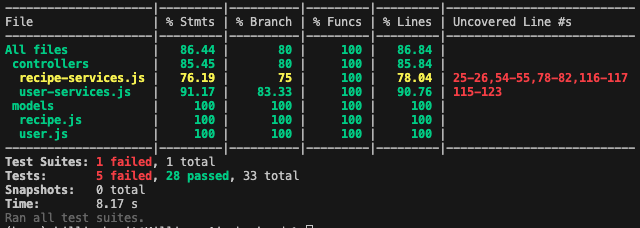
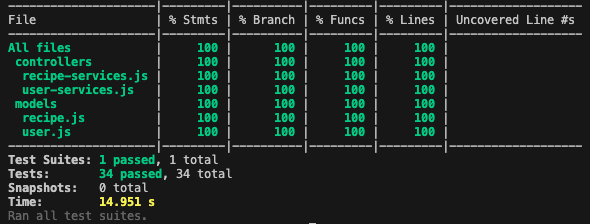
100

Changed region(s): [[0.0, 0.0, 1.0, 1.0]]

diff --git a/backend/backend.test.js b/backend/backend.test.js
@@ -255,7 +255,7 @@ describe("Test Suite", () => {
           const savedRecipe = await recipeServices.addRecipe(recipe);
           mongo_recipeId = new mongoose.Types.ObjectId(savedRecipe._id);
           // mongo_recipeId = savedRecipe._id;
-          console.log("mongo_recipeId: " + mongo_recipeId);
+          // console.log("mongo_recipeId: " + mongo_recipeId);
         });
 
         it("test userServices.addRecipe() - valid userId & recipe", async () => {
@@ -368,9 +368,9 @@ describe("Test Suite", () => {
       await Recipe.deleteMany({});
     });
 
-    it("test recipeServices.addRecipe() invalid recipe", () => {
-      const recipe = undefined;
-      const savedRecipe = recipeServices.addRecipe(recipe);
+    it("test recipeServices.addRecipe() invalid recipe", async () => {
+      const recipe = { id: undefined };
+      const savedRecipe = await recipeServices.addRecipe(recipe);
       expect(savedRecipe).toBeUndefined();
     });
 
@@ -392,10 +392,10 @@ describe("Test Suite", () => {
       // db_id = savedRecipe._id;
     });
 
-    it("test recipeServices.getRecipeByWebID() invalid recipeId", async () => {
-      const recipe = await recipeServices.getRecipeByWebID(12345);
-      expect(recipe).toBeUndefined();
-    });
+    // it("test recipeServices.getRecipeByWebID() invalid recipeId", async () => {
+    //   const recipe = await recipeServices.getRecipeByWebID(undefined);
+    //   expect(recipe).toBeUndefined();
+    // });
 
     it("test recipeServices.getRecipeByWebID() valid recipeId", async () => {
       const recipe = await recipeServices.getRecipeByWebID(web_recipeId);
@@ -433,7 +433,8 @@ describe("Test Suite", () => {
     });
 
     it("test recipeServices.getRatings() invalid recipeId", async () => {
-      const ratings = await recipeServices.getRatings("12345");
+      let bad_id = new mongoose.Types.ObjectId(11111111);
+      const ratings = await recipeServices.getRatings(bad_id);
       expect(ratings).toBeUndefined();
     });
 
@@ -446,25 +447,31 @@ describe("Test Suite", () => {
       expect(recipe.id).toBe(web_recipeId);
     });
 
-    let rating = {
+    let good_rating = {
       score: 5,
       name: "testerRater",
       comment: "this is a test comment",
     };
 
     let bad_rating = {
-      score: -1,
+      score: -5,
       name: "invalidRating",
       comment: "this is a test comment",
     };
 
+    let wo_rating = {
+      name: "wo_rating",
+      comment: "this is a test comment",
+    };
+
     it("test recipeServices.addRating() invalid recipeId", async () => {
-      const rating = await recipeServices.addRating("12345", rating);
+      let bad_id = new mongoose.Types.ObjectId(11111111);
+      const rating = await recipeServices.addRating(bad_id, good_rating);
       expect(rating).toBeUndefined();
     });
 
     it("test recipeServices.addRating() valid recipeId", async () => {
-      const recipe = await recipeServices.addRating(db_id, rating);
+      const recipe = await recipeServices.addRating(db_id, good_rating);
       expect(recipe).toBeDefined();
       expect(recipe.id).toBe(web_recipeId);
       expect(recipe.ratings.length).toBe(1);
@@ -473,6 +480,17 @@ describe("Test Suite", () => {
     it("test recipeServices.addRating() invalid rating", async () => {
       const recipe = await recipeServices.addRating(db_id, bad_rating);
       expect(recipe).toBeUndefined();
+    });
+
+    it("test recipeServices.addRating() last bit of coverage", async () => {
+      let bad_id = new mongoose.Types.ObjectId(11111111);
+      const recipe = await recipeServices.addRating(bad_id, good_rating);
+      expect(recipe).toBeUndefined();
+    });
+
+    it("test recipeServices.addRating() final coverage", async () => {
+      const recipe = await recipeServices.addRating(db_id, wo_rating);
+      expect(recipe).toBeDefined();
     });
   });
 });

diff --git a/backend/controllers/recipe-services.js b/backend/controllers/recipe-services.js
@@ -18,13 +18,13 @@ async function getRecipeByWebID(id) {
   :param id: spoonacular id for recipe
   :return: JSON object representing recipe
   */
-  try {
+  //try {
     const result = await recipeModel.findOne({ id: id });
     return result;
-  } catch (error) {
-    console.log(error);
-    return undefined;
-  }
+  // } catch (error) {
+  //   console.log(error);
+  //   return undefined;
+  // }
 }
 
 // find a recipe by ID
@@ -47,13 +47,14 @@ async function getRatings(recipeID) {
   :param recipeID: databse id of recipe
   :return: recipe object
   */
-  try {
+  // try {
     const recipe = await getRecipeByID(recipeID);
+    if (!recipe) return undefined;
     return recipe;
-  } catch (error) {
-    console.log(error);
-    return undefined;
-  }
+  // } catch (error) {
+  //   console.log(error);
+  //   return undefined;
+  // }
 }
 
 async function addRating(recipeID, rating) {
@@ -63,9 +64,10 @@ async function addRating(recipeID, rating) {
   :param rating: JSON containing recipe review
   :return: recipe object
   */
-  try {
+  // try {
     //find recipe then update average rating and push new rating
     const recipe = await getRecipeByID(recipeID);
+    if (!recipe) return undefined;
 
     if (!rating.score) rating.score = 0;
 
@@ -77,10 +79,10 @@ async function addRating(recipeID, rating) {
     } else {
       return undefined;
     }
-  } catch (error) {
-    console.log(error);
-    return undefined;
-  }
+  // } catch (error) {
+  //   console.log(error);
+  //   return undefined;
+  // }
 }
 
 // --------------------------------------------------
@@ -91,14 +93,14 @@ async function addRating(recipeID, rating) {
 // }
 
 // This function is only used inside this file (it's a helper function)
-async function updateAverageRating(recipe, rating) {
+function updateAverageRating(recipe, rating) {
   /*
   Updates average rating of a recipe
   :param recipe: recipeModel object
   :param: rating: integer represnting rating
   :return: boolean specifying if rating successfully updated
   */
-  try {
+  // try {
     //check for valid rating
     if (rating < 0 || rating > 5) {
       return false;
@@ -112,10 +114,10 @@ async function updateAverageRating(recipe, rating) {
       curRating * (numRatings / (numRatings + 1)) +
       rating * (1 / (numRatings + 1));
     return true;
-  } catch (error) {
-    console.log(error);
-    return false;
-  }
+  // } catch (error) {
+  //   console.log(error);
+  //   return false;
+  // }
 }
 
 // --------------------------------------------------

diff --git a/backend/controllers/user-services.js b/backend/controllers/user-services.js
@@ -112,7 +112,7 @@ async function removeRecipe(userID, recipeID) {
 
     //remove recipe reference from user.recipes
     //const user = await userModel.find({ _id: userID });
-    const user = await findUserByID(userID);
+    const user = await findUserById(userID);
 
     //check if recipe not favorited
     const idx = user.recipes.indexOf(recipeID);
